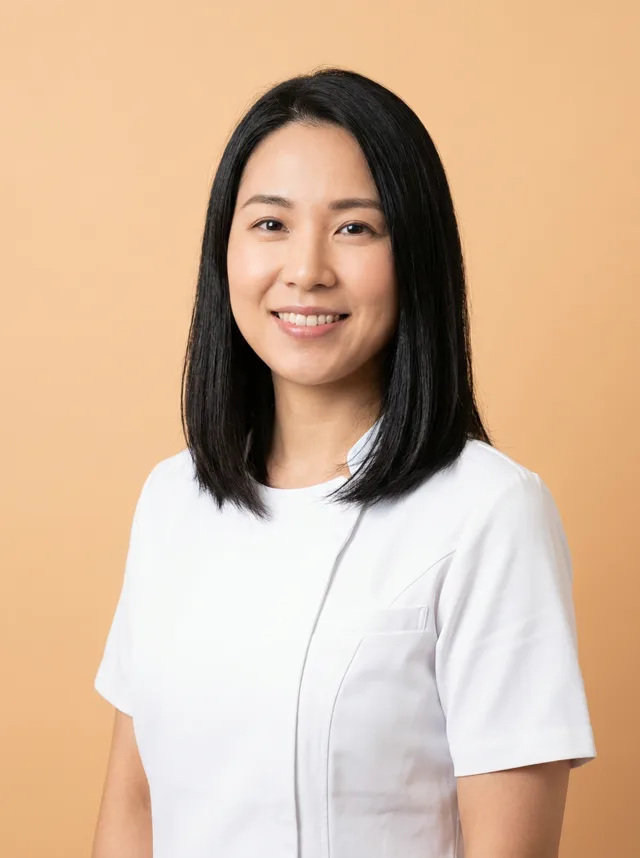
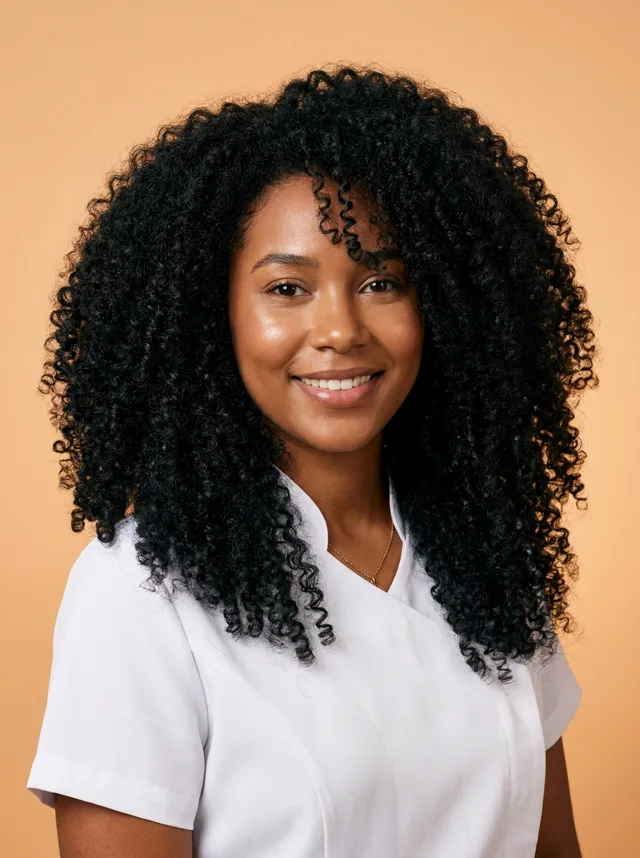
Novas fotos da equipe e da seção de perguntas
- Marina Santos (antes Okabe): jovem negra de cachos longos e volumosos
- Juliana Reis: nova foto, cabelo castanho ondulado
- Seção das cinco perguntas: jovem negra de cabelo cacheado longo

diff --git a/index.html b/index.html
@@ -412,7 +412,7 @@
     <!-- ============ PERGUNTAS ============ -->
     <section class="perguntas" aria-labelledby="titulo-perguntas">
       <figure class="moldura moldura--perguntas" data-foto>
-        <div class="moldura__foto"><img src="assets/img/maos-luz-800.webp" srcset="assets/img/maos-luz-800.webp 800w, assets/img/maos-luz-1500.webp 1500w" sizes="(min-width: 900px) 34vw, 100vw" width="1500" height="2250" alt="Mulher com sardas apoiando o rosto nas mãos na luz dourada do fim de tarde" loading="lazy"></div>
+        <div class="moldura__foto"><img src="assets/img/perguntas-900.webp" srcset="assets/img/perguntas-900.webp 900w, assets/img/perguntas-1600.webp 1600w" sizes="(min-width: 900px) 34vw, 100vw" width="1600" height="2143" alt="Jovem negra de cabelo cacheado longo, de olhos fechados, com as mãos no rosto na luz dourada do fim de tarde" loading="lazy"></div>
       </figure>
       <div class="perguntas__texto">
         <h2 id="titulo-perguntas" class="display display--m">Cinco perguntas para fazer a qualquer clínica. <em>Inclusive a nós.</em></h2>
@@ -440,13 +440,13 @@
           <p class="pessoa__registro">CRM-SP 000000 · RQE 00000</p>
         </li>
         <li class="pessoa">
-          <figure class="pessoa__retrato" data-foto><img src="assets/img/equipe-marina.webp" width="640" height="857" alt="Foto de exemplo: Marina Okabe, biomédica esteta, de túnica branca" loading="lazy"></figure>
-          <h3>Marina Okabe</h3>
+          <figure class="pessoa__retrato" data-foto><img src="assets/img/equipe-marina.webp" width="640" height="857" alt="Foto de exemplo: Marina Santos, biomédica esteta de cabelo cacheado, de túnica branca" loading="lazy"></figure>
+          <h3>Marina Santos</h3>
           <p>Biomédica esteta. Tratamentos de pele, peelings e microagulhamento.</p>
           <p class="pessoa__registro">CRBM 00000</p>
         </li>
         <li class="pessoa">
-          <figure class="pessoa__retrato" data-foto><img src="assets/img/equipe-juliana.webp" width="640" height="857" alt="Foto de exemplo: Juliana Reis, enfermeira dermatológica, de blusa clínica branca" loading="lazy"></figure>
+          <figure class="pessoa__retrato" data-foto><img src="assets/img/equipe-juliana.webp" width="640" height="857" alt="Foto de exemplo: Juliana Reis, enfermeira dermatológica de cabelo castanho ondulado, de blusa clínica branca" loading="lazy"></figure>
           <h3>Juliana Reis</h3>
           <p>Enfermeira dermatológica. Laser, corporal e acompanhamento pós-procedimento.</p>
           <p class="pessoa__registro">COREN-SP 000000</p>
